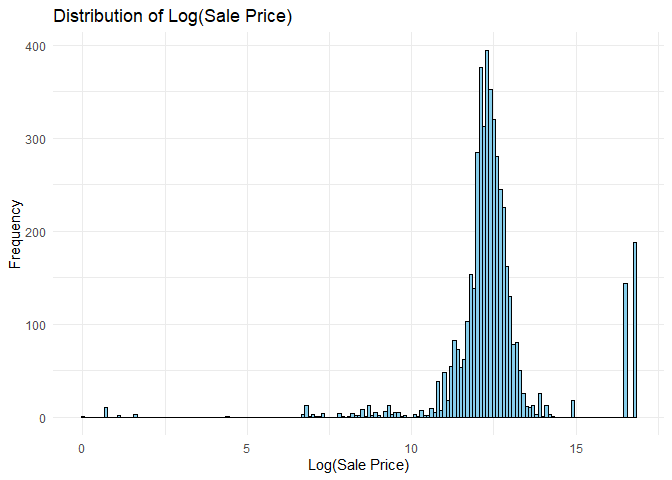
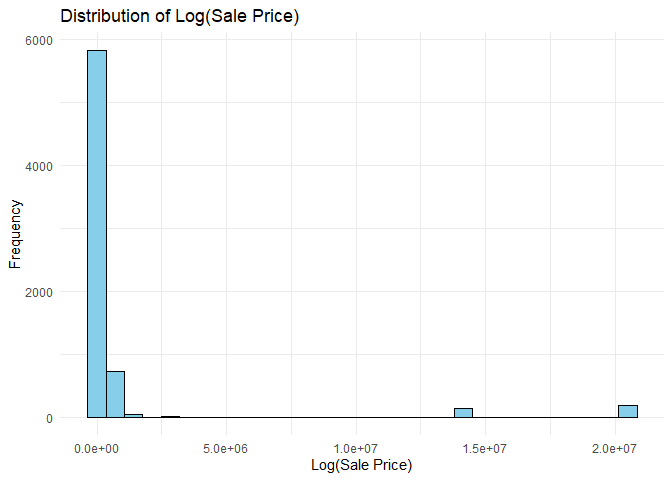
commit

diff --git a/README.md b/README.md
@@ -88,13 +88,13 @@ range(ames$`Sale Price`)
     ## [1]        0 20500000
 
 ``` r
-ggplot(ames, aes(x = log(`Sale Price`))) +
-  geom_histogram(binwidth = 0.1, fill = "skyblue", color = "black") +
+ggplot(ames, aes(x = `Sale Price`)) +
+  geom_histogram(fill = "skyblue", color = "black") +
   labs(x = "Log(Sale Price)", y = "Frequency", title = "Distribution of Log(Sale Price)") +
   theme_minimal()
 ```
 
-    ## Warning: Removed 2206 rows containing non-finite values (`stat_bin()`).
+    ## `stat_bin()` using `bins = 30`. Pick better value with `binwidth`.
 
 ![](README_files/figure-gfm/unnamed-chunk-2-1.png)<!-- -->
 \<\<\<\<\<\<\< HEAD
@@ -102,10 +102,12 @@ ggplot(ames, aes(x = log(`Sale Price`))) +
 library(ggplot2)
 
 ``` r
-ggplot(ames, aes(x = 'TotalLivingArea (sf)', y = 'Sale Price')) +
+ggplot(ames, aes(x = `TotalLivingArea (sf)`, y = `Sale Price`)) +
   geom_point() +
   labs(x = "TotalLivingArea (sf)", y = "Sale Price", title = "Scatterplot of Sale Price vs. Total Living Area")
 ```
+
+    ## Warning: Removed 447 rows containing missing values (`geom_point()`).
 
 ![](README_files/figure-gfm/unnamed-chunk-3-1.png)<!-- -->
 
